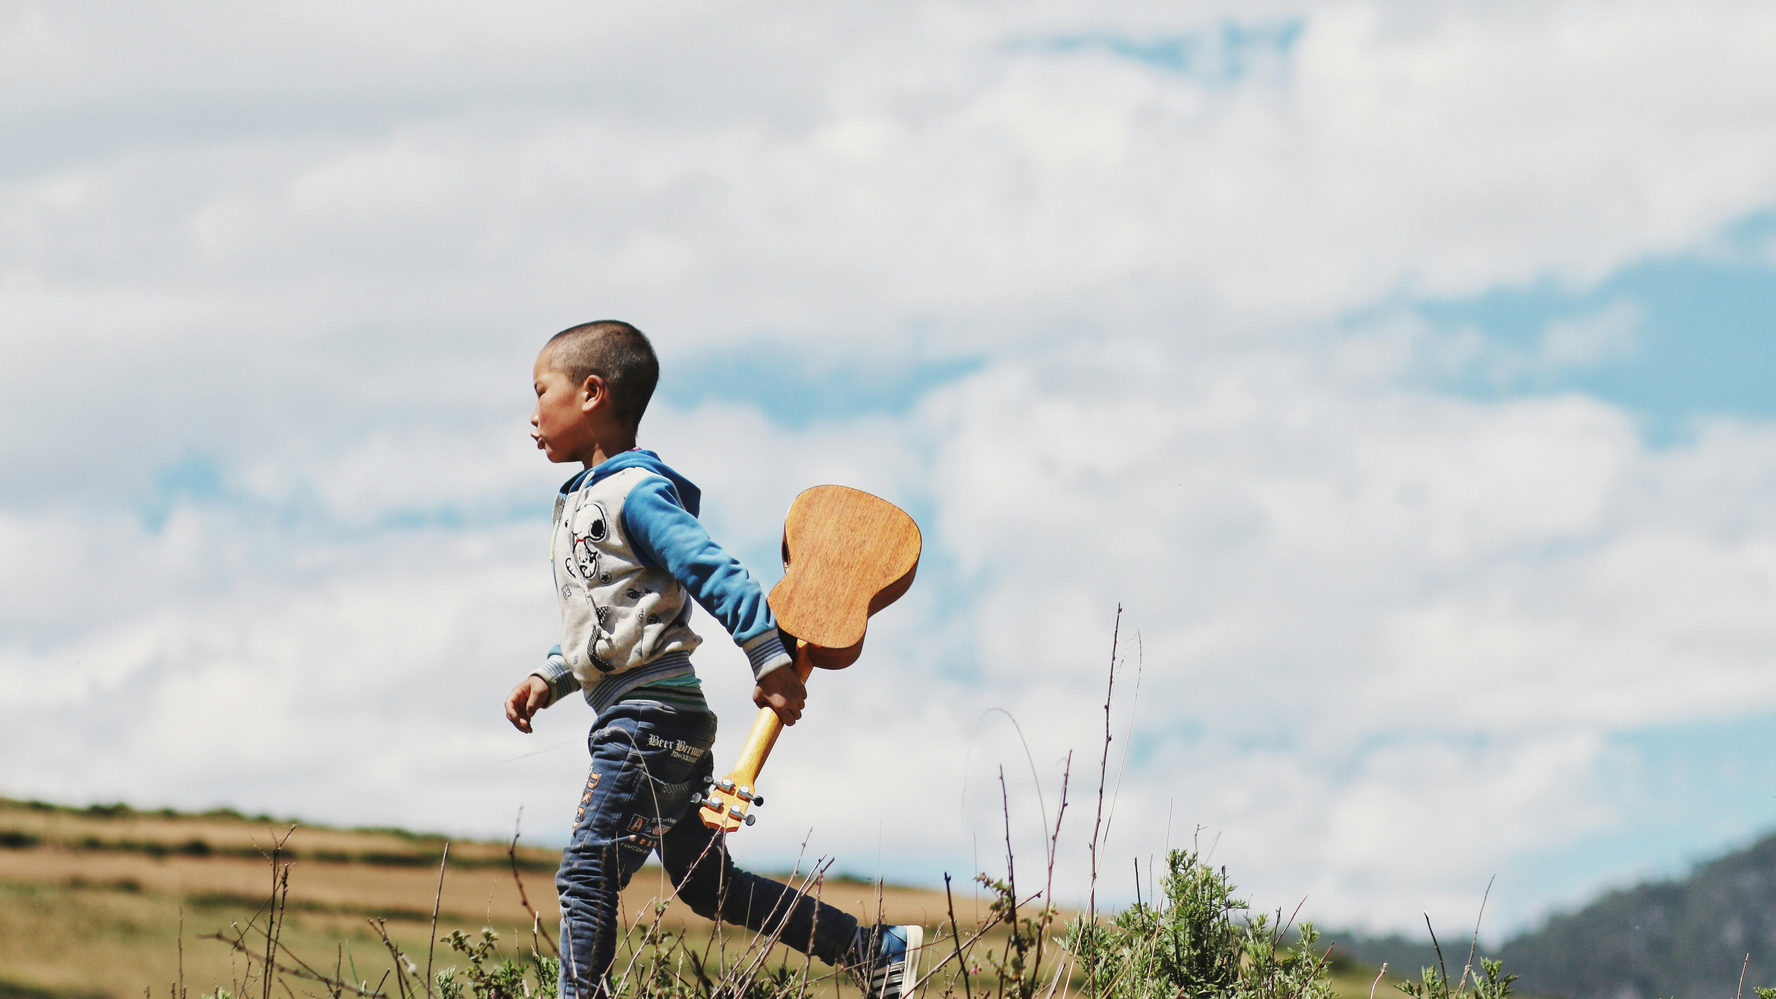
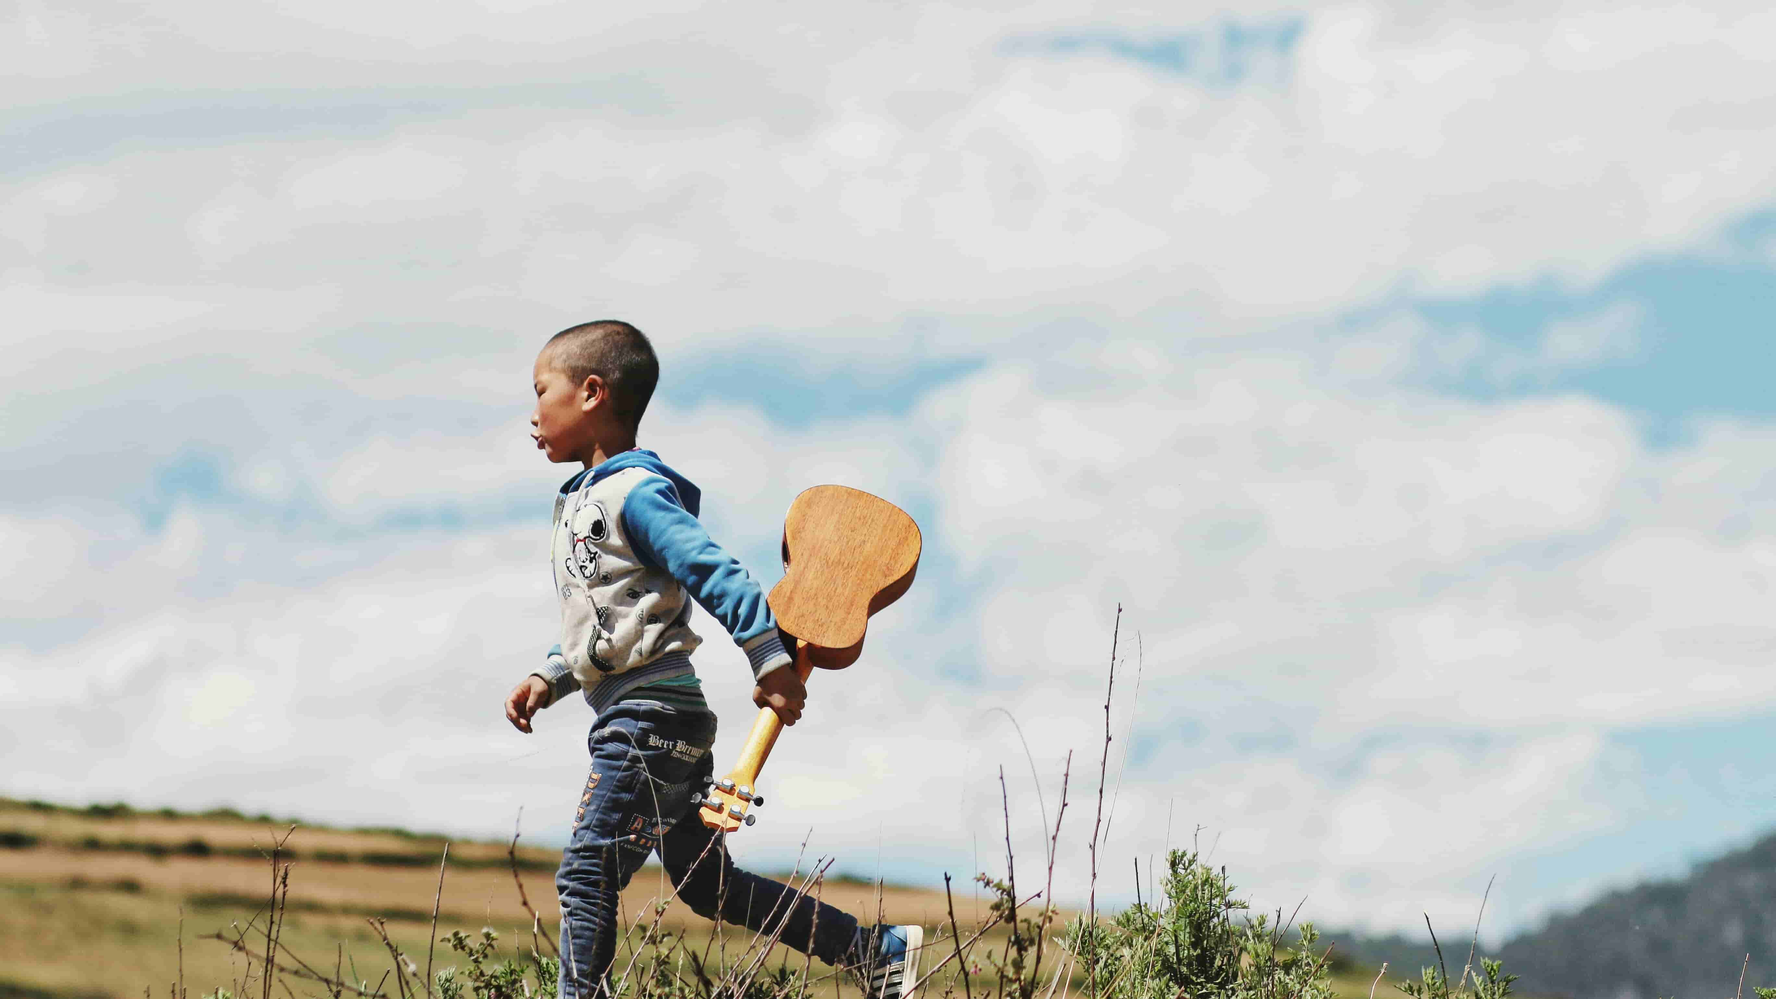
removed dummy data and images compressed

diff --git a/resources/views/home.blade.php b/resources/views/home.blade.php
@@ -31,11 +31,20 @@
           <div class="bg-cover bg-center h-96 mx-10 lg:w-1/2 lg:h-full" style="background-image: url('{{ asset('images/png/broken_image.png') }}');"> </div>
             <div class="h-max p-10 lg:w-1/2">
               <h1 class="lg:text-left text-4xl  text-center font-yesava" >What is EAPCI?</h1>
-                <p class="text-lg pt-6 flex-1 text-justify font-pop">lorem ipsum dolor sit amet, consectetur adipiscing elit. Sed do eiusmod tempor incididunt ut labore et dolore magna aliqua. Ut enim ad minim veniam, quis nostrud exercitation ullamco laboris nisi ut aliquip ex ea commodo consequat. Duis aute irure dolor in reprehenderit in voluptate velit esse cillum dolore eu fugiat nulla pariatur.
-                lorem ipsum dolor sit amet, consectetur adipiscing elit. Sed do eiusmod tempor incididunt ut labore et dolore magna aliqua. Ut enim ad minim veniam, quis nostrud exercitation ullamco laboris nisi ut aliquip ex ea commodo consequat. Duis aute irure dolor in reprehenderit in voluptate velit esse cillum dolore eu fugiat nulla pariatur.
-                lorem ipsum dolor sit amet, consectetur adipiscing elit. Sed do eiusmod tempor incididunt ut labore et dolore magna aliqua. Ut enim ad minim veniam, quis nostrud exercitation ullamco laboris nisi ut aliquip ex ea commodo consequat. Duis aute irure dolor in reprehenderit in voluptate velit esse cillum dolore eu fugiat nulla pariatur.
-                lorem ipsum dolor sit amet, consectetur adipiscing elit. Sed do eiusmod tempor incididunt ut labore et dolore magna aliqua. Ut enim ad minim veniam, quis nostrud exercitation ullamco laboris nisi ut aliquip ex ea commodo consequat. Duis aute irure dolor in reprehenderit in voluptate velit esse cillum dolore eu fugiat nulla pariatur.
-                </p>
+              <p class="text-lg pt-6 flex-1 text-justify font-pop">
+                The East African Professional Counselling Institute (EAPCI) was established in 2010 by counselling and clinical psychologists from Uganda and Kenya to address shared psychosocial challenges in the region. Registered in Uganda (number 119844), EAPCI employs a unique experiential learning methodology that has proven highly effective. Over the past 13 years, EAPCI has provided a comprehensive range of mental health services, including training, clinical counselling supervision, and stress management. Their collaborations with organizations such as World Vision International Uganda and the Ministry of Gender, Labour and Social Development highlight their impact. EAPCI also offers specialized services such as psychoeducation, sexual and gender-based violence counselling, mindful breathing exercises, and financial literacy training.               
+                <p class="text-lg pt-6 flex-1 text-justify font-pop">
+                  EAPCI’s mission is to empower individuals and families through counselling, training, and community outreach, fostering healthy intrapersonal and interpersonal relationships. Their expertise spans the East African and Great Lakes Regions, supporting mental health and psychosocial caregivers across twelve countries within the International Conference of Great Lakes Region (ICGLR) Regional Training Facility. EAPCI is committed to values of confidentiality, empathy, and integrity, ensuring accessible and effective services available 24/7 through various electronic means. Their consultants blend theoretical knowledge with practical application, consistently delivering support within budget and on time.          
+                </p>      
+                {{-- <p class="text-lg pt-6 flex-1 text-justify font-pop">
+                EAPCI's mission is to empower individuals and families through counselling, training, and community outreach, promoting healthy intrapersonal and interpersonal relationships. Committed to values of confidentiality, empathy, and integrity, EAPCI ensures its services are accessible and effective, available 24/7 through various electronic means. Their consultants combine theoretical knowledge with practical application, delivering support within budget and on time.              </p>
+              
+               <p class="text-lg pt-6 flex-1 text-justify font-pop">
+              EAPCI offers a wide range of services, including training and clinical counselling supervision for mental health and psychosocial support caregivers within the International Conference of Great Lakes Region (ICGLR) Regional Training Facility. This facility comprises twelve countries: Angola, Burundi, Central African Republic, Democratic Republic of Congo, Congo Brazzaville, Kenya, Rwanda, Sudan, South Sudan, Tanzania, Uganda, and Zambia.
+              </p>
+               <p class="text-lg pt-6 flex-1 text-justify font-pop">
+              Our expertise extends across various domains, including employee assistance programs, psychoeducation, sexual and gender-based violence counselling, Zumba dance therapy, mindful breathing exercises, financial literacy, individual and group counselling, stress management, psychological first aid, spiritual counselling, and more. We also provide strategic HR services such as selection and recruitment planning, psychometric assessments, succession planning, compensation schemes, training and development programs, performance management, occupational health and welfare, HIV/AIDS interventions, and personnel administration.
+              </p> --}}
                 <a href="about"><button class="bg-coreblue border-4 border-bgwhite rounded-xl p-4 text-darkblue text-xl font-bold  mt-10 max-w-max  hover:text-bgwhite hover:bg-darkblue duration-300 ease-in-out font-pop">Know More</button>
                 </a>
             </div>
@@ -52,7 +61,7 @@
         <img src="{{asset('images/carousal/caro1.jpg')}}" class="absolute inset-0 w-full h-full object-cover grayscale blur-sm" alt="...">
         <div class="absolute inset-0 flex flex-col justify-center items-center text-white">
             <h1 class="text-4xl md:text-7xl text-center font-yesava text-bgwhite drop-shadow-md">Our Vision</h1>
-            <p class="w-3/4 text-2xl md:text-3xl text-center font-yesava text-bgwhite mt-5 drop-shadow-md">Lorem ipsum dolor sit amet, consectetur adipiscing elit. Sed do eiusmod tempor incididunt ut labore et dolore magna aliqua.</p>
+            <p class="w-3/4 text-2xl md:text-3xl text-center font-yesava text-bgwhite mt-5 drop-shadow-md">Empowering individuals to achieve mental well-being and thrive in their lives, fostering a society where mental health is prioritized and supported.</p>
         </div>
     </div>
     <!-- Item 2 -->
@@ -60,7 +69,7 @@
         <img src="{{asset('images/carousal/caro2.jpg')}}" class="absolute inset-0 w-full h-full object-cover grayscale blur-sm" alt="...">
         <div class="absolute inset-0 flex flex-col justify-center items-center text-white">
             <h1 class="text-4xl md:text-7xl text-center font-yesava text-bgwhite drop-shadow-md">Our Mission</h1>
-            <p class="w-3/4 text-2xl md:text-3xl text-center font-yesava text-bgwhite mt-5 drop-shadow-md">Lorem ipsum dolor sit amet, consectetur adipiscing elit. Sed do eiusmod tempor incididunt ut labore et dolore magna aliqua. Ut enim ad minim veniam.</p>
+            <p class="w-3/4 text-2xl md:text-3xl text-center font-yesava text-bgwhite mt-5 drop-shadow-md">Delivering accessible, compassionate mental health services that promote awareness, resilience, and holistic healing for individuals of all backgrounds. We strive to ensure that everyone has the support they need to navigate life's challenges and thrive mentally and emotionally.</p>
         </div>
     </div>
 </div>
@@ -91,10 +100,11 @@
   <div class="flex flex-col w-full justify-between lg:flex-row">
     <div class="h-max p-10 lg:w-1/2">
       <h1 class="lg:text-left text-4xl  text-center font-yesava" >Short Course</h1>
-        <p class="text-lg pt-6 flex-1 text-justify font-pop">lorem ipsum dolor sit amet, consectetur adipiscing elit. Sed do eiusmod tempor incididunt ut labore et dolore magna aliqua. Ut enim ad minim veniam, quis nostrud exercitation ullamco laboris nisi ut aliquip ex ea commodo consequat. Duis aute irure dolor in reprehenderit in voluptate velit esse cillum dolore eu fugiat nulla pariatur.
-        lorem ipsum dolor sit amet, consectetur adipiscing elit. Sed do eiusmod tempor incididunt ut labore et dolore magna aliqua. Ut enim ad minim veniam, quis nostrud exercitation ullamco laboris nisi ut aliquip ex ea commodo consequat. Duis aute irure dolor in reprehenderit in voluptate velit esse cillum dolore eu fugiat nulla pariatur.
-        lorem ipsum dolor sit amet, consectetur adipiscing elit. Sed do eiusmod tempor incididunt ut labore et dolore magna aliqua. Ut enim ad minim veniam, quis nostrud exercitation ullamco laboris nisi ut aliquip ex ea commodo consequat. Duis aute irure dolor in reprehenderit in voluptate velit esse cillum dolore eu fugiat nulla pariatur.
-        lorem ipsum dolor sit amet, consectetur adipiscing elit. Sed do eiusmod tempor incididunt ut labore et dolore magna aliqua. Ut enim ad minim veniam, quis nostrud exercitation ullamco laboris nisi ut aliquip ex ea commodo consequat. Duis aute irure dolor in reprehenderit in voluptate velit esse cillum dolore eu fugiat nulla pariatur.
+        <p class="text-lg pt-6 flex-1 text-justify font-pop">
+          Empower yourself and elevate your career with our comprehensive short courses in counseling and clinical psychology. Designed for professionals across various settings, these courses provide focused learning opportunities that equip you with essential skills and knowledge to make a meaningful difference in people's lives. Our offerings include Developing Counseling Skills for Professionals, Mental Health Psycho-social Support (MHPSS), and Mental Health, Substance Abuse, and Addiction. Each course integrates practical exercises and real-world case studies, ensuring you can confidently apply what you learn in your professional context.
+        </p>
+          <p class="text-lg pt-6 flex-1 text-justify font-pop">
+Additionally, our specialized courses cover areas such as Sexual and Gender-Based Violence Prevention, Marriage and Family Therapy, Child and Adolescent Mental Health, and Trauma-Informed Care. Whether you're looking to refine your clinical skills with expert supervision or explore the integration of spirituality in family therapy, our programs are designed to meet your needs. By participating in these courses, you will enhance your ability to support clients effectively, promote mental well-being, and contribute to community resilience, all while advancing your professional development.
         </p>
         <a href="courses" ><button class="bg-darkblue border-4 border-coreblue rounded-xl p-4 text-bgwhite text-xl font-bold  mt-10 max-w-max  hover:text-darkblue hover:bg-bgwhite duration-300 ease-in-out font-pop">Know More</button>
         </a>

diff --git a/resources/views/services.blade.php b/resources/views/services.blade.php
@@ -48,7 +48,7 @@
               </div>
               <div class="p-4 text-center relative group-hover:text-bgwhite h-full drop-shadow-xl m-auto flex items-center justify-center">
                   <p class="text-xl md:text-2xl lg:text-4xl font-bold group-hover:hidden drop-shadow-2xl">Conquer emotional challenges</p>
-                  <div class="hidden group-hover:block p-5 lg:p-10">
+                  <div class="hidden group-hover:block py-2 px-5 lg:px-10">
                       <p class="text-lg font-bold">Conquer emotional challenges</p>
                       <p class="text-md text-justify">Manage stress, anxiety, and depression, find healing from loss and trauma, and overcome addiction with individual counseling tailored to your needs.</p>
                   </div>
@@ -60,9 +60,9 @@
                 </div>
                 <div class="p-4 text-center relative group-hover:text-bgwhite h-full drop-shadow-xl m-auto flex items-center justify-center">
                     <p class="text-xl md:text-2xl lg:text-4xl font-bold group-hover:hidden drop-shadow-2xl">Navigate life transitions</p>
-                    <div class="hidden group-hover:block p-5 lg:p-10">
+                    <div class="hidden group-hover:block py-2 px-5 lg:px-10">
                         <p class="text-lg font-bold">Navigate life transitions</p>
-                        <p class="text-md text-justify">Seek guidance for children, youth, and adults facing unique challenges.</p>
+                        <p class="text-md text-center">Seek guidance for children, youth, and adults facing unique challenges.</p>
                     </div>
                 </div>
             </div>
@@ -72,9 +72,9 @@
               </div>
               <div class="p-4 text-center relative group-hover:text-bgwhite h-full drop-shadow-xl m-auto flex items-center justify-center">
                   <p class="text-xl md:text-2xl lg:text-4xl font-bold group-hover:hidden drop-shadow-2xl">Gain deeper understanding</p>
-                  <div class="hidden group-hover:block p-5 lg:p-10">
+                  <div class="hidden group-hover:block py-2 px-5 lg:px-10">
                       <p class="text-lg font-bold">Gain deeper understanding</p>
-                      <p class="text-md text-justify">Uncover hidden patterns and unlock growth potential through psychological assessments and psychotherapy</p>
+                      <p class="text-md">Uncover hidden patterns and unlock growth potential through psychological assessments and psychotherapy</p>
                   </div>
               </div>
           </div>
@@ -88,9 +88,10 @@
             </div>
             <div class="p-4 text-center relative group-hover:text-bgwhite h-full drop-shadow-xl m-auto flex items-center justify-center">
                 <p class="text-xl md:text-2xl lg:text-4xl font-bold group-hover:hidden drop-shadow-2xl">A diverse team of qualified professionals</p>
-                <div class="hidden group-hover:block p-5 lg:p-10">
+                <div class="hidden group-hover:block py-2 px-5 lg:px-2">
                     <p class="text-lg font-bold">A diverse team of qualified professionals</p>
-                    <p class="text-md text-justify">Find the perfect counselor who understands your specific needs. Or a clinical psychologist who will help you discover your mental health state through assessment and treatment of severe mental disorders. Or a psychiatrist who will diagnose you and prescribe medicine to enhance your mental health.</p>
+                    <p class="text-md text-center">
+                      Discover the ideal counselor or clinical psychologist to address your unique needs, or find a psychiatrist for diagnosis and medication to improve your mental health.</p>
                 </div>
             </div>
         </div>
@@ -100,9 +101,9 @@
               </div>
               <div class="p-4 text-center relative group-hover:text-bgwhite h-full drop-shadow-xl m-auto flex items-center justify-center">
                   <p class="text-xl md:text-2xl lg:text-4xl font-bold group-hover:hidden drop-shadow-2xl">Flexible scheduling and modalities</p>
-                  <div class="hidden group-hover:block p-5 lg:p-10">
+                  <div class="hidden group-hover:block py-2 px-5 lg:px-10">
                       <p class="text-lg font-bold">Flexible scheduling and modalities</p>
-                      <p class="text-md text-justify">We offer in-person and online options to fit your busy lifestyle.</p>
+                      <p class="text-md text-center">We offer in-person and online options to fit your busy lifestyle.</p>
                   </div>
               </div>
           </div>
@@ -112,9 +113,9 @@
             </div>
             <div class="p-4 text-center relative group-hover:text-bgwhite h-full drop-shadow-xl m-auto flex items-center justify-center">
                 <p class="text-xl md:text-2xl lg:text-4xl font-bold group-hover:hidden drop-shadow-2xl">Culturally sensitive and inclusive environment</p>
-                <div class="hidden group-hover:block p-5 lg:p-10">
+                <div class="hidden group-hover:block py-2 px-5 lg:px-10">
                     <p class="text-lg font-bold">Culturally sensitive and inclusive environment</p>
-                    <p class="text-md text-justify">Feel welcomed and respected regardless of your background.</p>
+                    <p class="text-md text-center">Feel welcomed and respected regardless of your background.</p>
                 </div>
             </div>
         </div>

diff --git a/resources/views/components/layout.blade.php b/resources/views/components/layout.blade.php
@@ -19,24 +19,24 @@
 <nav class=" sticky top-0 w-full z-40 border-gray-200 bg-gray-50 dark:bg-gray-800 dark:border-gray-700" id="navbar">
     <div  class=" py-2  flex flex-wrap items-center justify-between mx-auto p-1 bg-headblue"> 
             <div class="flex space-x-4 ml-auto mx-20 sm:justify-center ">
-                <a href="#" class="text-gray-500 hover:text-gray-900 dark:hover:text-white">
+                <a href="https://www.facebook.com/eastafricaprofessionalcounsellinginstitute/" class="text-gray-500 hover:text-gray-900 dark:hover:text-white">
                     <svg class="w-4 h-4" aria-hidden="true" xmlns="http://www.w3.org/2000/svg" fill="currentColor" viewBox="0 0 8 19">
                           <path fill-rule="evenodd" d="M6.135 3H8V0H6.135a4.147 4.147 0 0 0-4.142 4.142V6H0v3h2v9.938h3V9h2.021l.592-3H5V3.591A.6.6 0 0 1 5.592 3h.543Z" clip-rule="evenodd"/>
                       </svg>
                     <span class="sr-only">Facebook page</span>
                 </a>
-                <a href="#" class="text-gray-500 hover:text-gray-900 dark:hover:text-white ms-5">
+                {{-- <a href="#" class="text-gray-500 hover:text-gray-900 dark:hover:text-white ms-5">
                     <svg class="w-4 h-4" aria-hidden="true" xmlns="http://www.w3.org/2000/svg" fill="currentColor" viewBox="0 0 21 16">
                           <path d="M16.942 1.556a16.3 16.3 0 0 0-4.126-1.3 12.04 12.04 0 0 0-.529 1.1 15.175 15.175 0 0 0-4.573 0 11.585 11.585 0 0 0-.535-1.1 16.274 16.274 0 0 0-4.129 1.3A17.392 17.392 0 0 0 .182 13.218a15.785 15.785 0 0 0 4.963 2.521c.41-.564.773-1.16 1.084-1.785a10.63 10.63 0 0 1-1.706-.83c.143-.106.283-.217.418-.33a11.664 11.664 0 0 0 10.118 0c.137.113.277.224.418.33-.544.328-1.116.606-1.71.832a12.52 12.52 0 0 0 1.084 1.785 16.46 16.46 0 0 0 5.064-2.595 17.286 17.286 0 0 0-2.973-11.59ZM6.678 10.813a1.941 1.941 0 0 1-1.8-2.045 1.93 1.93 0 0 1 1.8-2.047 1.919 1.919 0 0 1 1.8 2.047 1.93 1.93 0 0 1-1.8 2.045Zm6.644 0a1.94 1.94 0 0 1-1.8-2.045 1.93 1.93 0 0 1 1.8-2.047 1.918 1.918 0 0 1 1.8 2.047 1.93 1.93 0 0 1-1.8 2.045Z"/>
                       </svg>
                     <span class="sr-only">Discord community</span>
-                </a>
-                <a href="#" class="text-gray-500 hover:text-gray-900 dark:hover:text-white ms-5">
+                </a> --}}
+                {{-- <a href="#" class="text-gray-500 hover:text-gray-900 dark:hover:text-white ms-5">
                     <svg class="w-4 h-4" aria-hidden="true" xmlns="http://www.w3.org/2000/svg" fill="currentColor" viewBox="0 0 20 17">
                       <path fill-rule="evenodd" d="M20 1.892a8.178 8.178 0 0 1-2.355.635 4.074 4.074 0 0 0 1.8-2.235 8.344 8.344 0 0 1-2.605.98A4.13 4.13 0 0 0 13.85 0a4.068 4.068 0 0 0-4.1 4.038 4 4 0 0 0 .105.919A11.705 11.705 0 0 1 1.4.734a4.006 4.006 0 0 0 1.268 5.392 4.165 4.165 0 0 1-1.859-.5v.05A4.057 4.057 0 0 0 4.1 9.635a4.19 4.19 0 0 1-1.856.07 4.108 4.108 0 0 0 3.831 2.807A8.36 8.36 0 0 1 0 14.184 11.732 11.732 0 0 0 6.291 16 11.502 11.502 0 0 0 17.964 4.5c0-.177 0-.35-.012-.523A8.143 8.143 0 0 0 20 1.892Z" clip-rule="evenodd"/>
                   </svg>
                     <span class="sr-only">Twitter page</span>
-                </a>
+                </a> --}}
             </div>
     </div>
     <div class="flex flex-wrap items-center justify-between mx-auto p-5 px-20  bg-coreblue">
@@ -132,8 +132,8 @@
         <hr class="border-b-8 border-darkblue sm:mx-auto dark:border-darkblue" />
         <div class="justify-between w-full p-4 py-6 lg:py-8">
             <div class="mx-10 md:mx-20 md:flex md:justify-between">
-              <div class="grid grid-cols-2 gap-8 sm:gap-6 sm:grid-cols-3">
-                  <div>
+                <div class="grid grid-cols-2 gap-8 sm:gap-6 sm:grid-cols-3">
+                 {{-- <div>
                       <h2 class="mb-6 text-sm font-semibold text-gray-900 uppercase dark:text-white">Resources</h2>
                       <ul class="text-gray-500 dark:text-gray-400 font-medium">
                           <li class="mb-4">
@@ -165,15 +165,15 @@
                               <a href="#" class="hover:underline">Terms &amp; Conditions</a>
                           </li>
                       </ul>
-                  </div>
-              </div>
+                  </div>--}}
+              </div> 
               <div class="my-6 w-full md:ml-10 lg:w-max  md:my-0 text-justify font-pop">
                         <h2 class="mb-3 text-xl font-bold text-darkblue uppercase dark:text-white">Contact</h2>
                         <ul class="text-darkblue dark:text-gray-400 font-medium sm:block mb-5">
                             <li><span>Plot 73 Buganda Road,</span></li>
                             <li><span>P.O. Box 124370, Kampala(U) Jowiro House 4th Floor Room 404 ,</span></li>
                             <li><span>Above Kampala Medical Chambers Hospital</span></li>
-                            <li><span>Email: something@something.org</span></li>
+                            <li><span>Email: eapci@yahoo.com</span></li>
                             <li><span>Phone: +256700300102/ +256777025320</span></li>
                         </ul>
             </div>

diff --git a/resources/views/aboutus.blade.php b/resources/views/aboutus.blade.php
@@ -67,7 +67,7 @@
         <img src="{{ asset('images/jpg/aboutbg.jpg') }}" alt="Campus Image 1" class="w-full h-96 object-cover rounded-lg mb-4 object-center">
         <h1 class="absolute top-10 left-10 z-10 text-2xl md:text-3xl font-bold text-center p-5 rounded-xl backdrop-blur-sm text-white drop-shadow-sm border-white border">Our Campus</h1>
         <div><h2 class="text-2xl font-bold mb-2">Campus Building 1</h2>
-        <p class="text-gray-700">Lorem ipsum dolor sit amet, consectetur adipiscing elit. Sed do eiusmod tempor incididunt ut labore et dolore magna aliqua.</p>
+        {{-- <p class="text-gray-700">Lorem ipsum dolor sit amet, consectetur adipiscing elit. Sed do eiusmod tempor incididunt ut labore et dolore magna aliqua.</p> --}}
       </div>
     </div>
     <iframe src="https://www.google.com/maps/embed?pb=!1m18!1m12!1m3!1d3989.771929990687!2d32.612902976151744!3d0.27629646408330777!2m3!1f0!2f0!3f0!3m2!1i1024!2i768!4f13.1!3m3!1m2!1s0x177dbdcff6c0e613%3A0xf3c603d2b5b8fdb!2sEAST%20AFRICAN%20PROFESSIONAL%20COUNSELLING%20INSTITUTE!5e0!3m2!1sen!2sin!4v1715612332824!5m2!1sen!2sin" width="600" height="450" style="border:0;" allowfullscreen="" loading="lazy" referrerpolicy="no-referrer-when-downgrade" class="md:h-full w-full"></iframe>
